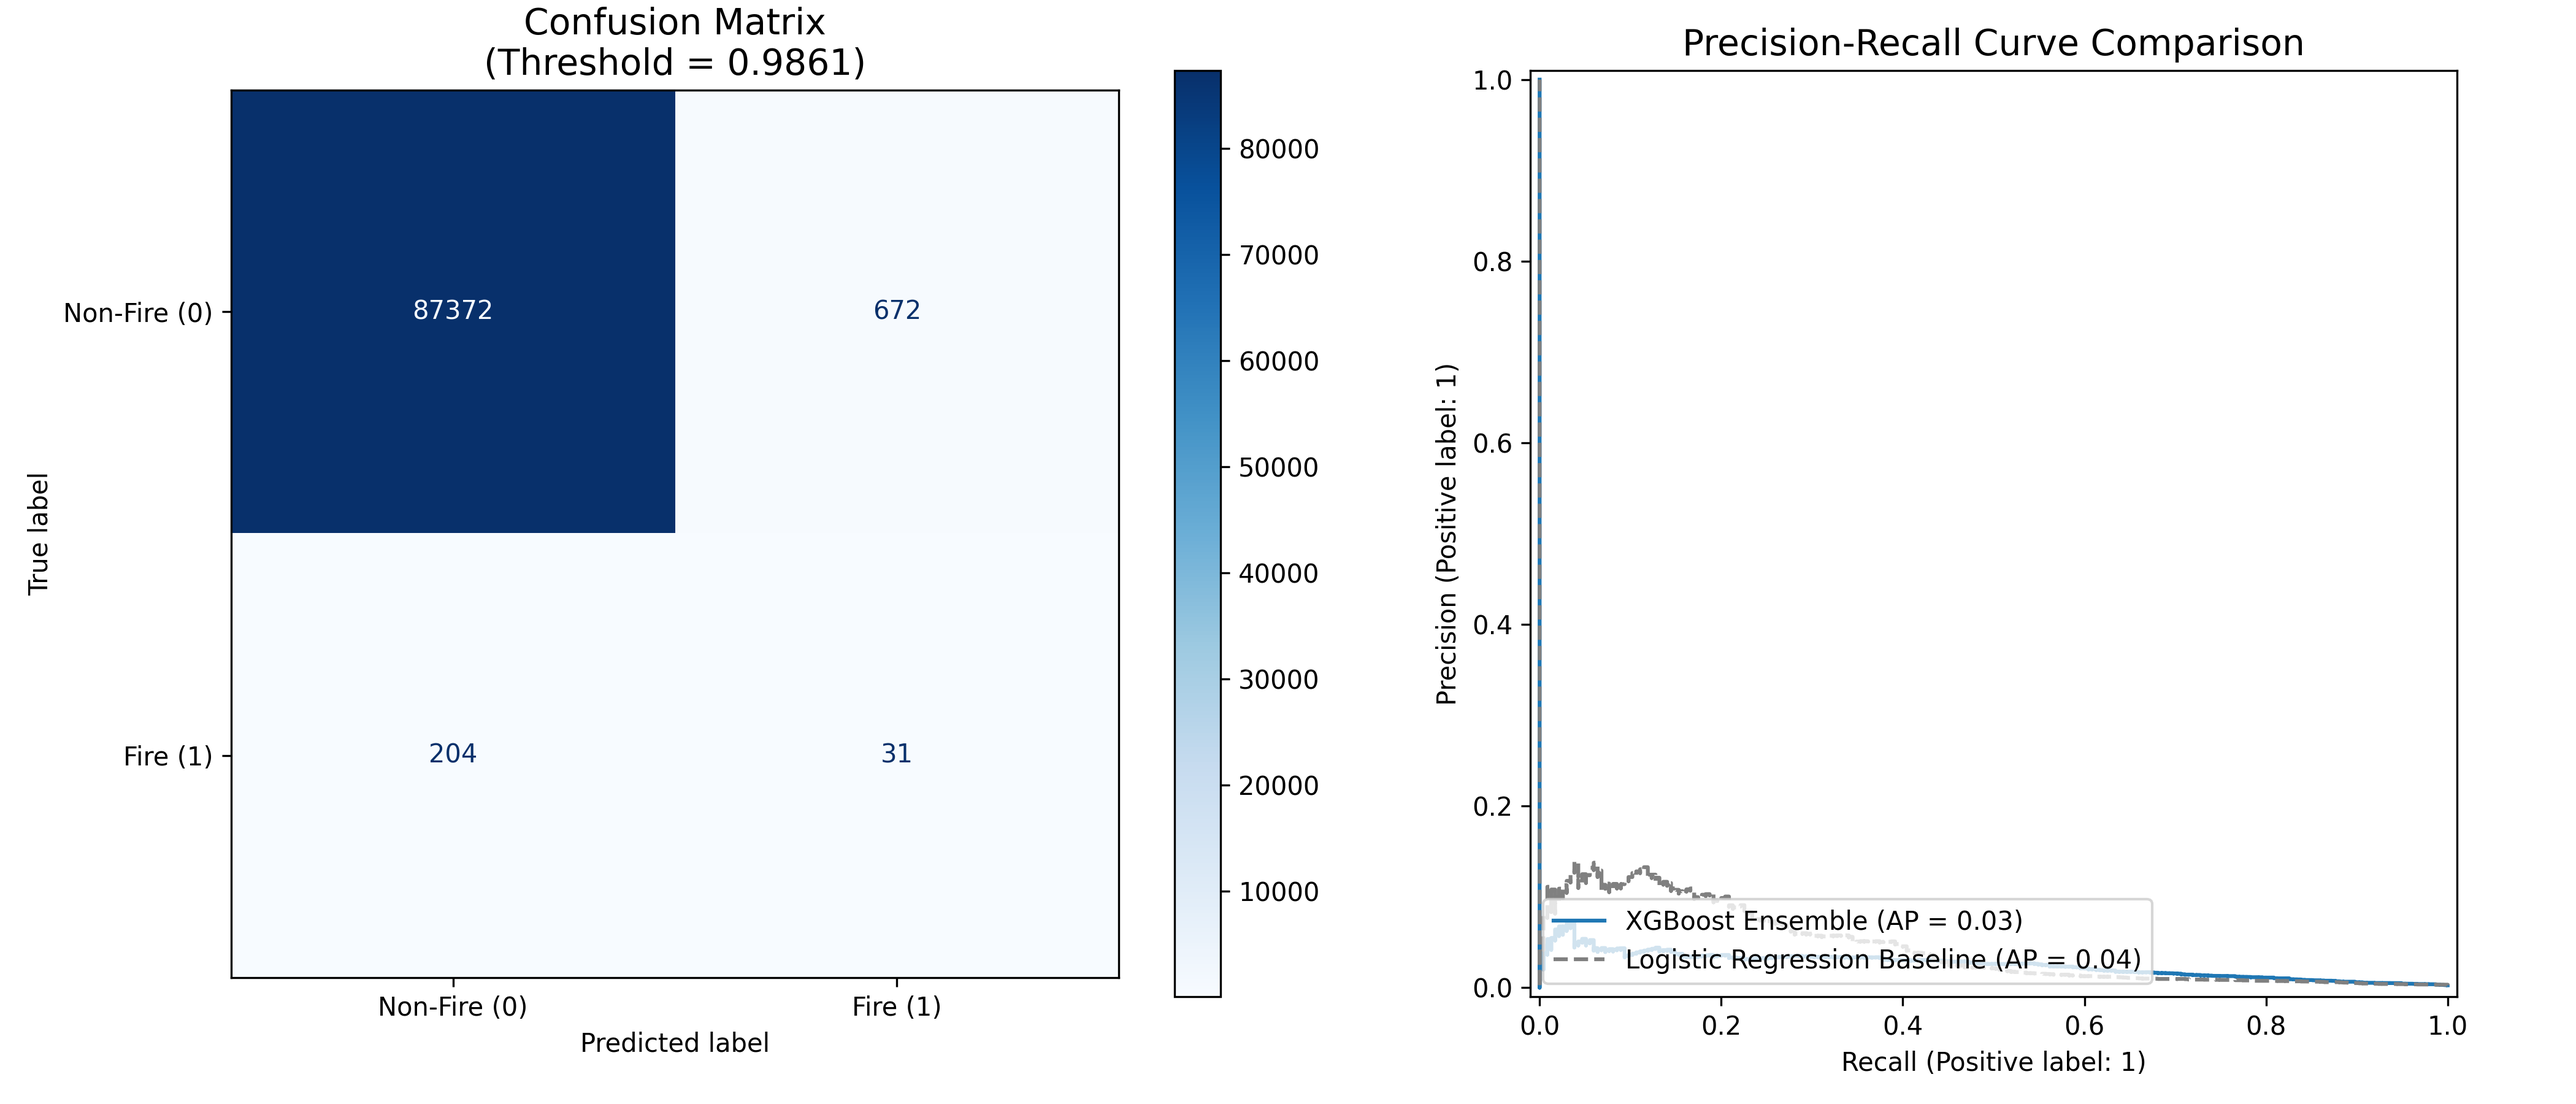
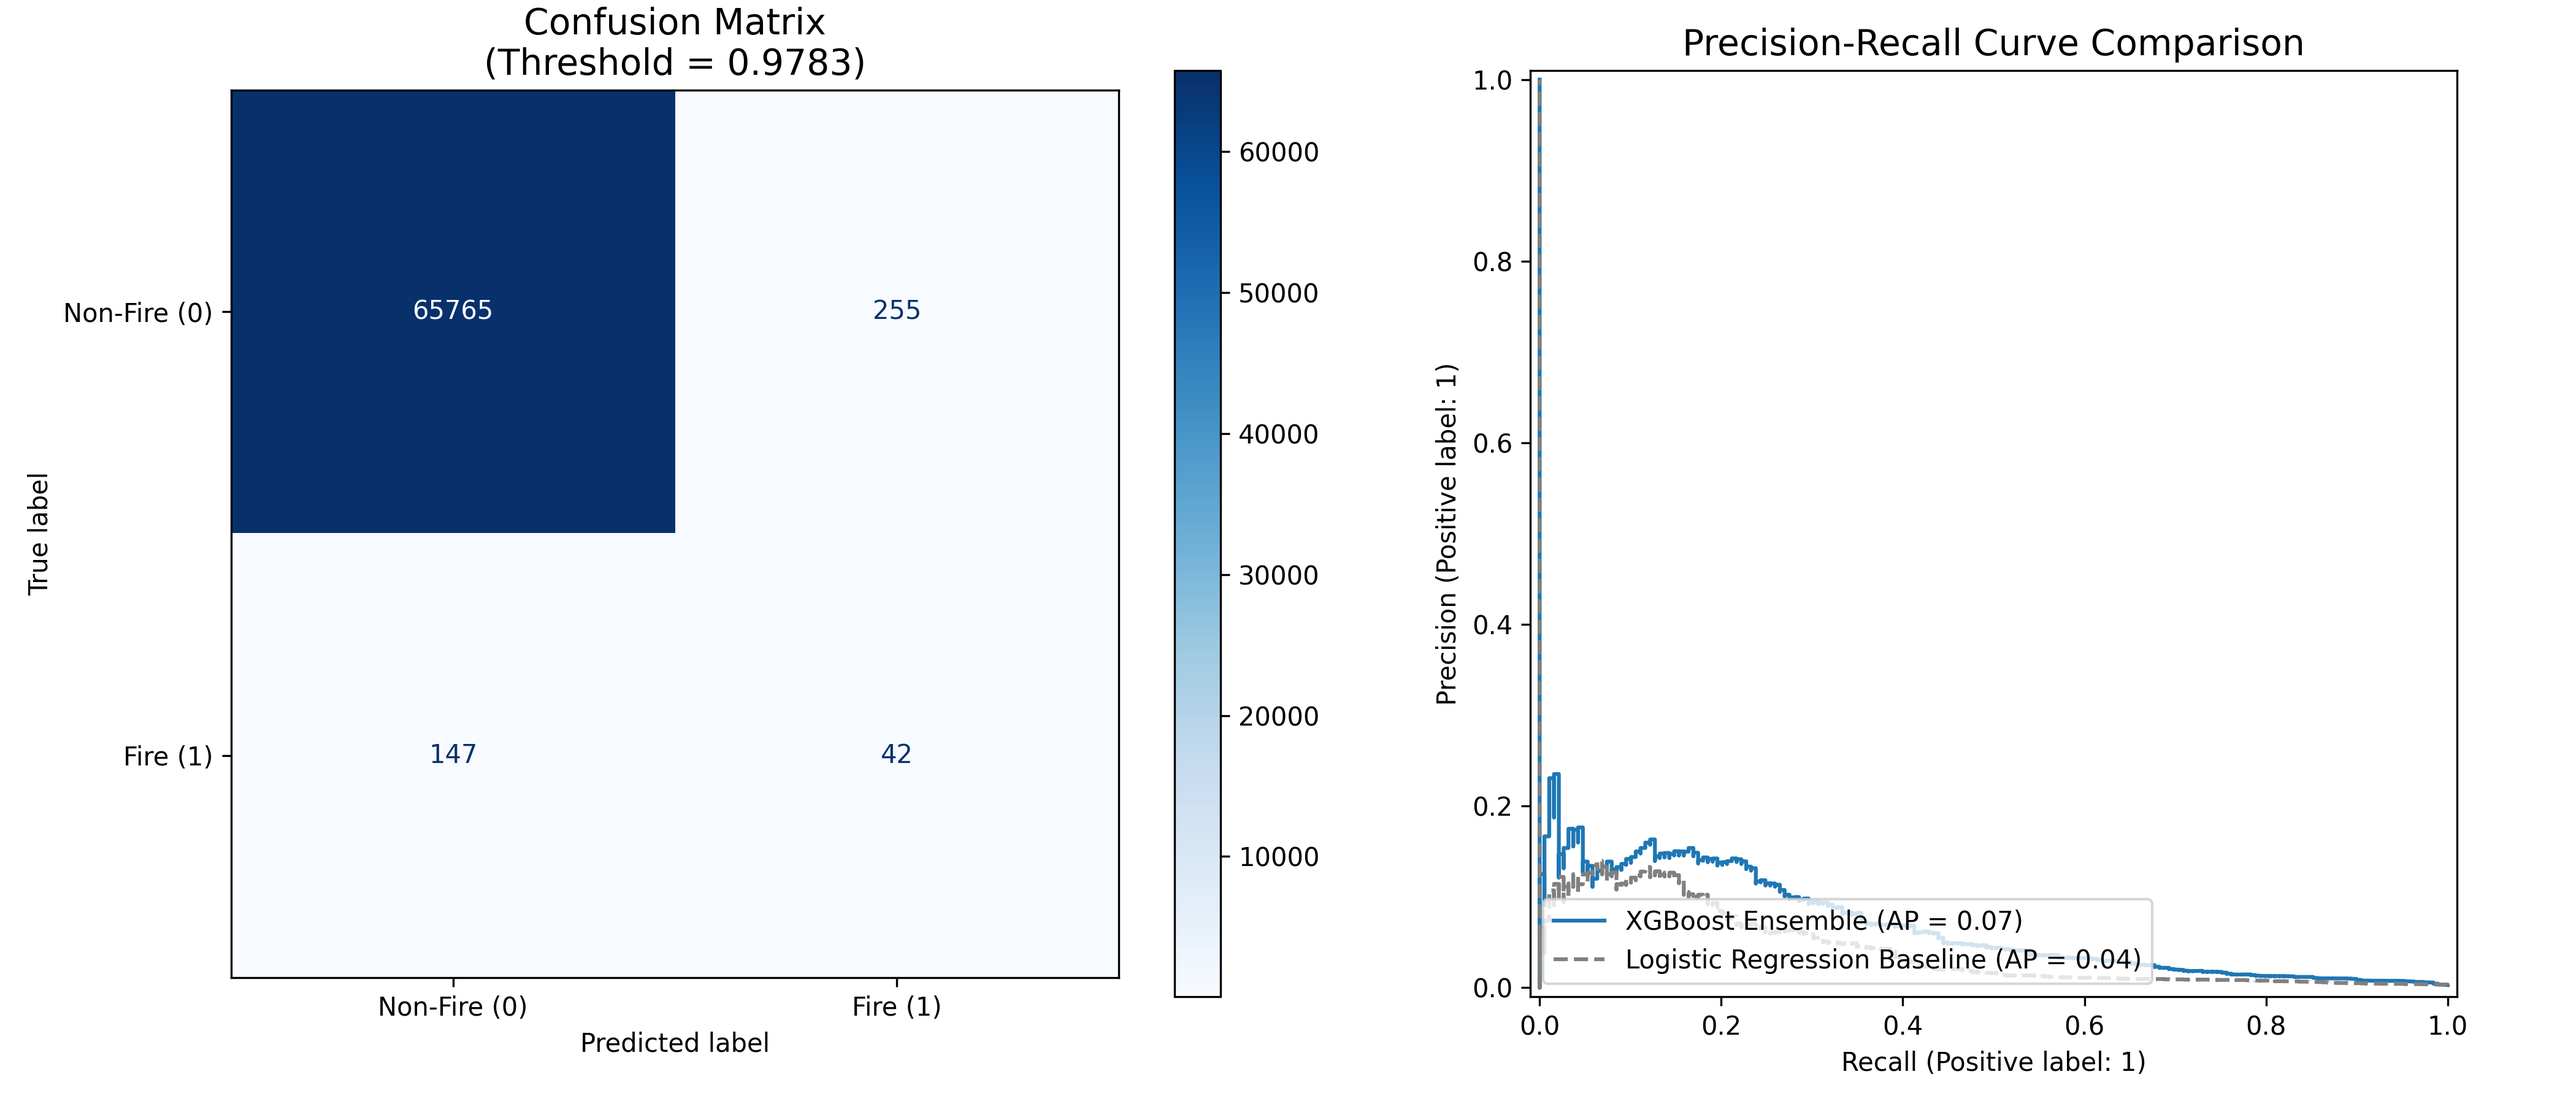
fix

diff --git a/src/pipelines/wildfire_pipeline.py b/src/pipelines/wildfire_pipeline.py
@@ -5,17 +5,27 @@ from src.config import Config
  
 import pandas as pd
 import questionary
-from sklearn.model_selection import GridSearchCV, TimeSeriesSplit
-from sklearn.preprocessing import StandardScaler
+from sklearn.metrics import precision_recall_curve, roc_auc_score, classification_report
+
+from sklearn.model_selection import RandomizedSearchCV, PredefinedSplit
+from imblearn.over_sampling import SMOTE
 from xgboost import XGBClassifier
+import numpy as np
 
 cfg = Config()
 class WildfirePipeline:
-    def __init__(self, model_factory, use_lag: bool, tune: bool, params: dict = None):
+    def __init__(
+        self, model_factory, use_lag: bool, 
+        tune: bool, params: dict = None, downsample_ratio: int = 10,
+        use_smote: bool = False, smote_ratio: float = 0.5
+    ):
         self.model_factory = model_factory
         self.use_lag = use_lag
         self.tune = tune
         self.params = params or {}
+        self.downsample_ratio = downsample_ratio
+        self.use_smote = use_smote
+        self.smote_ratio = smote_ratio
         self.features = None
         self.model = None
         
@@ -57,30 +67,29 @@ class WildfirePipeline:
         self.features = base + extra
         
     def train(self, df):
-        X_train, X_test, y_train, y_test  = split.temporal_split(df)       
+        train, val, test  = split.temporal_split(df)       
         
-        test_full = X_test.copy()
-        test_full["fire"] = y_test
+        ones = train[train['fire'] == 1]
+        zeros = train[train['fire'] == 0]
         
-        train_df = X_train.copy()
-        train_df['fire'] = y_train        
-        
-        ones = train_df[train_df['fire'] == 1]
-        zeros = train_df[train_df['fire'] == 0]
-        
-        n_zeros = min(len(ones) * 10, len(zeros))
-        train_zeros_sampled = zeros.sample(n=n_zeros, random_state=42)
-        train_balanced = pd.concat([ones, train_zeros_sampled]).sample(frac=1)
-        
+        if self.downsample_ratio is not None:
+            n_zeros = min(len(ones) * self.downsample_ratio, len(zeros))
+            zeros_sampled = zeros.sample(n=n_zeros, random_state=42)
+            train_balanced = pd.concat([ones, zeros_sampled])
+        else:
+            train_balanced = train 
+            
         X_train = train_balanced[self.features]
         y_train = train_balanced['fire']
-        X_test = X_test[self.features]
         
-        scale_pos_weight = (y_train == 0).sum() / (y_train == 1).sum()
+        if self.use_smote:
+            smote = SMOTE(sampling_strategy=self.smote_ratio, random_state=42)
+            X_train, y_train = smote.fit_resample(X_train, y_train)
+            
+        scale_pos_weight = min(50, (y_train == 0).sum() / (y_train == 1).sum())
         
-        # scaler = StandardScaler()
-        # X_train_scaled = scaler.fit_transform(X_train)
-        # X_test_scaled = scaler.fit_transform(X_test)
+        X_val = val[self.features]
+        y_val = val["fire"]
         if "xgboost" in self.model_factory.__name__:
             if self.tune:
                 base_model = XGBClassifier(scale_pos_weight=scale_pos_weight, 
@@ -89,25 +98,29 @@ class WildfirePipeline:
                 param_grid = {
                     'n_estimators': [100, 200],
                     'max_depth': [3, 5, 7],
-                    'learning_rate': [0.01, 0.1],
-                    'subsample': [0.8, 1.0],
-                    'colsample_bytree': [0.8, 1.0]
+                    'learning_rate': [0.01, 0.05, 0.1],
+                    'subsample': [0.6, 0.8, 1.0],
+                    'colsample_bytree': [0.6, 0.8, 1.0],
                 }
                 
-                tscv = TimeSeriesSplit(n_splits=3)
+                X_combined =  pd.concat([X_train, X_val])
+                y_combined = pd.concat([y_train, y_val])
+                test_fold = np.array([-1]*len(X_train) + [0]*len(X_val))
+                ps = PredefinedSplit(test_fold)
                 
-                grid_search = GridSearchCV(
+                random_search = RandomizedSearchCV (
                     estimator=base_model,
-                    param_grid=param_grid,
-                    cv = tscv, 
-                    scoring='roc_auc',
+                    param_distributions=param_grid,
+                    cv = ps, 
+                    scoring='average_precision',
                     n_jobs=-1,
-                    verbose=1
+                    verbose=1,
+                    random_state=cfg.RANDOM_SEED
                 )
                 
-                grid_search.fit(X_train, y_train)
-                print("Best parameters:", grid_search.best_params_)
-                best_params = grid_search.best_params_                
+                random_search.fit(X_combined, y_combined)
+                print("Best parameters:", random_search.best_params_)
+                best_params = random_search.best_params_                
                 import json
                 with open(cfg.xgboost_params, 'w') as f:
                     json.dump(best_params, f)
@@ -126,14 +139,59 @@ class WildfirePipeline:
                 self.model = XGBClassifier(**model_params)
         else:
             self.model = self.model_factory()
+            
         self.model.fit(X_train, y_train)
-        probs = self.model.predict_proba(X_test)[:, 1] 
-        optimal_threshold = tr.evaluate_model(
-            self.model, X_test, y_test, self.features
-        )
+        
+        X_test = test[self.features]
+        y_test = test['fire']
+        optimal_threshold = tr.evaluate_model(self.model, X_test, y_test, self.features)
 
-        test_full["fire_probability"] = probs
+        test_probs = self.model.predict_proba(X_test)[:, 1]
+        test_preds = (test_probs >= optimal_threshold).astype(int)
+        
+        self._evaluate_by_year_type(test, test_probs, optimal_threshold)
+        tr.generate_evaluation_artifacts(
+            model=self.model,
+            X_train=X_train,
+            y_train=y_train,
+            X_test=X_test,
+            y_test=y_test,
+            optimal_threshold=optimal_threshold,
+            primary_probs=test_probs,          
+            primary_preds=test_preds
+        )
+        
+        tr.generate_spatial_reliability_map(
+            X_test=X_test,
+            y_test=y_test,
+            probs=test_probs,
+            optimal_threshold=optimal_threshold,
+            original_df=test    
+        )
+        test_full = test.copy()
+        test_full["fire_probability"] = test_probs
         return self.model, test_full
+    
+    def _evaluate_by_year_type(self, test_df, probs, threshold):
+        extreme = test_df[test_df['is_extreme_year'] == 1]
+        normal = test_df[test_df['is_extreme_year'] == 0]
+        
+        print("extreme:", len(test_df['is_extreme_year']))
+        if len(extreme) > 0:
+            probs_ext = probs[test_df['is_extreme_year'] == 1]
+            y_ext = test_df.loc[test_df['is_extreme_year'] == 1, 'fire']
+            preds_ext = (probs_ext >= threshold).astype(int)
+            print("\n=== Extreme Years Performance ===")
+            print(classification_report(y_ext, preds_ext))
+            print(f"ROC-AUC (extreme): {roc_auc_score(y_ext, probs_ext):.4f}")
+
+        if len(normal) > 0:
+            probs_norm = probs[test_df['is_extreme_year'] == 0]
+            y_norm = test_df.loc[test_df['is_extreme_year'] == 0, 'fire']
+            preds_norm = (probs_norm >= threshold).astype(int)
+            print("\n=== Normal Years Performance ===")
+            print(classification_report(y_norm, preds_norm))
+            print(f"ROC-AUC (normal): {roc_auc_score(y_norm, probs_norm):.4f}")
     
     def visualize(self, model, df_full):
         target_month = df_full[
@@ -185,4 +243,4 @@ class WildfirePipeline:
         if "Create Bivarite Map GHM & VPD" in options:
             maps.create_bivariate_map(test)
         if "Animate Risk Over Time" in options:
-            maps.animate_risk_over_time(test, year=2022)
+            maps.animate_risk_over_time(test, year=2024)

diff --git a/src/visualization/maps.py b/src/visualization/maps.py
@@ -4,12 +4,13 @@ import geopandas as gpd
 import pandas as pd
 import xarray as xr
 import numpy as np
-from src.config import RAW_DIR, Config
+from src.config import Config
 from matplotlib.colors import ListedColormap
 from shapely.geometry import Point 
 
 import matplotlib.animation as animation
 
+cfg = Config()
 def plot_month_map(
     df: pd.DataFrame,
     year: int,
@@ -206,9 +207,24 @@ def create_bivariate_map(
     plt.savefig(output_path, dpi=300, bbox_inches='tight')
     plt.show()
 
-def animate_risk_over_time(df, year, output_file='risk_animation.gif'):
-    months = sorted(df['month'].unique())
-    fig, ax = plt.subplot(figsize=(10, 6))
+def animate_risk_over_time(df, year, output_file=cfg.risk_map_animation_output):
+    if 'valid_time' not in df.columns:
+        print("DataFrame must have a 'valid_time' column.")
+        return
+
+    df_year = df[df['valid_time'].dt.year == year].copy()
+    if df_year.empty:
+        print(f"No data for year {year}. Cannot create animation.")
+        return
+
+    if 'month' not in df_year.columns:
+        df_year['month'] = df_year['valid_time'].dt.month
+
+    months = sorted(df_year['month'].unique())
+    if len(months) == 0:
+        print(f"No month data for year {year}. Cannot create animation.")
+        return
+    fig, ax = plt.subplots(figsize=(10, 6))
     
     def update(month):
         ax.clear()
@@ -220,17 +236,20 @@ def animate_risk_over_time(df, year, output_file='risk_animation.gif'):
         subset = subset.copy()
         subset['x_rounded'] = subset['x'].round(2)
         subset['y_rounded'] = subset['y'].round(2)
-        risk_grid = subset.pivot(index='y_rounded', columns='x_rounded', values='fire_probability')
+        risk_grid = subset.pivot(
+            index='y_rounded', 
+                                 columns='x_rounded', values='fire_probability', aggfunc='mean')
         xmin, xmax = risk_grid.columns.min(), risk_grid.columns.max()
         ymin, ymax = risk_grid.index.min(), risk_grid.index.max()
         
-        ax.imshow(risk_grid.values, origin='lower', extent=[xmin, xmax, ymin, ymax],
+        im = ax.imshow(risk_grid.values, origin='lower', extent=[xmin, xmax, ymin, ymax],
                   cmap='plasma', vmin=0, vmax=1)
         ax.set_title(f"Fire probability - {month}/{year}")
         ax.set_xlabel("Longitude")
         ax.set_ylabel("Latitude")
         
         ax.grid(True, linestyle='--', alpha=0.3)
+        return im
         
     ani = animation.FuncAnimation(fig, update, frames=months, repeat=True)
     ani.save(output_file, writer='pillow', fps=1)

diff --git a/src/models/train.py b/src/models/train.py
@@ -1,6 +1,5 @@
 import pandas as pd
-from xgboost import XGBClassifier
-from sklearn.ensemble import RandomForestClassifier
+
 from sklearn.metrics import (
     roc_auc_score, 
     classification_report, 
@@ -16,6 +15,7 @@ from src.config import PROCESSED_DIR
 import matplotlib.pyplot as plt
 import shap
 import numpy as np
+from sklearn.preprocessing import StandardScaler
 
 def train_model(model, X_train, y_train):
     model.fit(X_train, y_train)
@@ -27,20 +27,29 @@ def generate_evaluation_artifacts(
     y_train,
     X_test,
     y_test,
-    optimal_threshold
+    optimal_threshold,
+    primary_probs=None,
+    primary_preds=None
 ):
-    baseline_model = LogisticRegression(class_weight='balanced', max_iter=1000, random_state=42)
-    baseline_model.fit(X_train, y_train)
+    scaler = StandardScaler()
+    X_train_scaled = scaler.fit_transform(X_train)
+    X_test_scaled = scaler.fit_transform(X_test)
+    baseline_model = LogisticRegression(
+        class_weight='balanced', max_iter=2000, random_state=42,solver='lbfgs'
+    )
+    baseline_model.fit(X_train_scaled, y_train)
     
-    baseline_probs = baseline_model.predict_proba(X_test)[:, 1]
+    baseline_probs = baseline_model.predict_proba(X_test_scaled)[:, 1]
     baseline_preds = (baseline_probs >= 0.5).astype(int)
     
     print("Logistic Regression Baseline Classification Report:")
     print(classification_report(y_test, baseline_preds))
     
     print("\n=== GENERATING VISUAL ARTIFACTS ===")
-    primary_probs = model.predict_proba(X_test)[:, 1]
-    primary_preds = (primary_probs >= optimal_threshold).astype(int)
+    if primary_probs is None:
+        primary_probs = model.predict_proba(X_test)[:, 1]
+    if primary_preds is None:
+        primary_preds = (primary_probs >= optimal_threshold).astype(int)
     
     fig, ax = plt.subplots(1, 2, figsize=(14, 6), facecolor='white')
     

diff --git a/src/data/split.py b/src/data/split.py
@@ -3,22 +3,16 @@ import pandas as pd
 
 def temporal_split(
     df: pd.DataFrame,
-    test_size: int = 0.2
+    test_size: float = 0.15,
+    val_size: float = 0.15
 ):
     df = df.sort_values('valid_time')
-    split_idx = int(len(df) * (1 - test_size))
+    val_idx = int(len(df) * (1  - test_size - val_size))
+    test_idx = int(len(df) * (1 - test_size))
     
-    train_df = df.iloc[:split_idx]
-    test_df = df.iloc[split_idx:]
+    train = df.iloc[:val_idx]
+    val = df.iloc[val_idx:test_idx]
+    test = df.iloc[test_idx:]
     
-    X_train = train_df.drop(columns=["fire"])
-    y_train = train_df["fire"]
-    
-    X_test = test_df.drop(columns=["fire"])
-    y_test = test_df["fire"]
-    
-    X_test_hot = X_test[X_test['is_extreme_year'] == 1]
-    y_test_hot = y_test[X_test['is_extreme_year'] == 1]
-    X_test_cold = X_test[X_test['is_extreme_year'] == 0]
-    y_test_cold = y_test[X_test['is_extreme_year'] == 0]
-    return X_train, X_test, y_train, y_test
+    logger
+    return train, val, test

diff --git a/src/process_manager.py b/src/process_manager.py
@@ -88,11 +88,24 @@ def wildfire_pipeline():
     use_lag = int(input("Use lag features(yes - 1 / no - 0): "))
     if cfg.production_mode:
         import json
-        with(cfg.xgboost_params, 'r') as f:
+        with open(cfg.xgboost_params, 'r') as f:
             best_params = json.load(f)
-        pipeline = WildfirePipeline(factory, use_lag, tune=False, params=best_params)
+            
+        pipeline = WildfirePipeline(
+            factory, 
+            use_lag, 
+            tune=False, 
+            params=best_params,
+            use_smote=True,
+            downsample_ratio=10,
+            smote_ratio=0.3
+        )
     else:
-        pipeline = WildfirePipeline(factory, use_lag, tune=True)
+        pipeline = WildfirePipeline(
+            factory, 
+            use_lag, 
+            tune=True
+        )
 
     pipeline.run()
     

diff --git a/src/config.py b/src/config.py
@@ -24,8 +24,10 @@ class Config:
         self.processed_table = data["data_paths"]["processed_table"]
         
         self.khmao_geojson = data["data_paths"]["khmao_geojson"]
-        self.config_file = data
         self.xgboost_params = data["data_paths"]["xgboost_params"]
+        self.risk_map_animation_output = data["data_paths"]["risk_map_animation_output"]
+
+        self.config_file = data
         self.production_mode = data["production"]
 
     WILDFIRE_SEASON_MONTHS = list(range(4, 11))
@@ -34,4 +36,7 @@ class Config:
     BALANCED_RATIO = 10
         
     def get_study_years(self) -> dict:
-        return self.config_file["study_years"]
+        return {
+            'anomalous_hot': [2016, 2020, 2022, 2023],
+            'baseline_cold': [2017, 2018, 2019, 2021, 2024, 2025]
+        }
